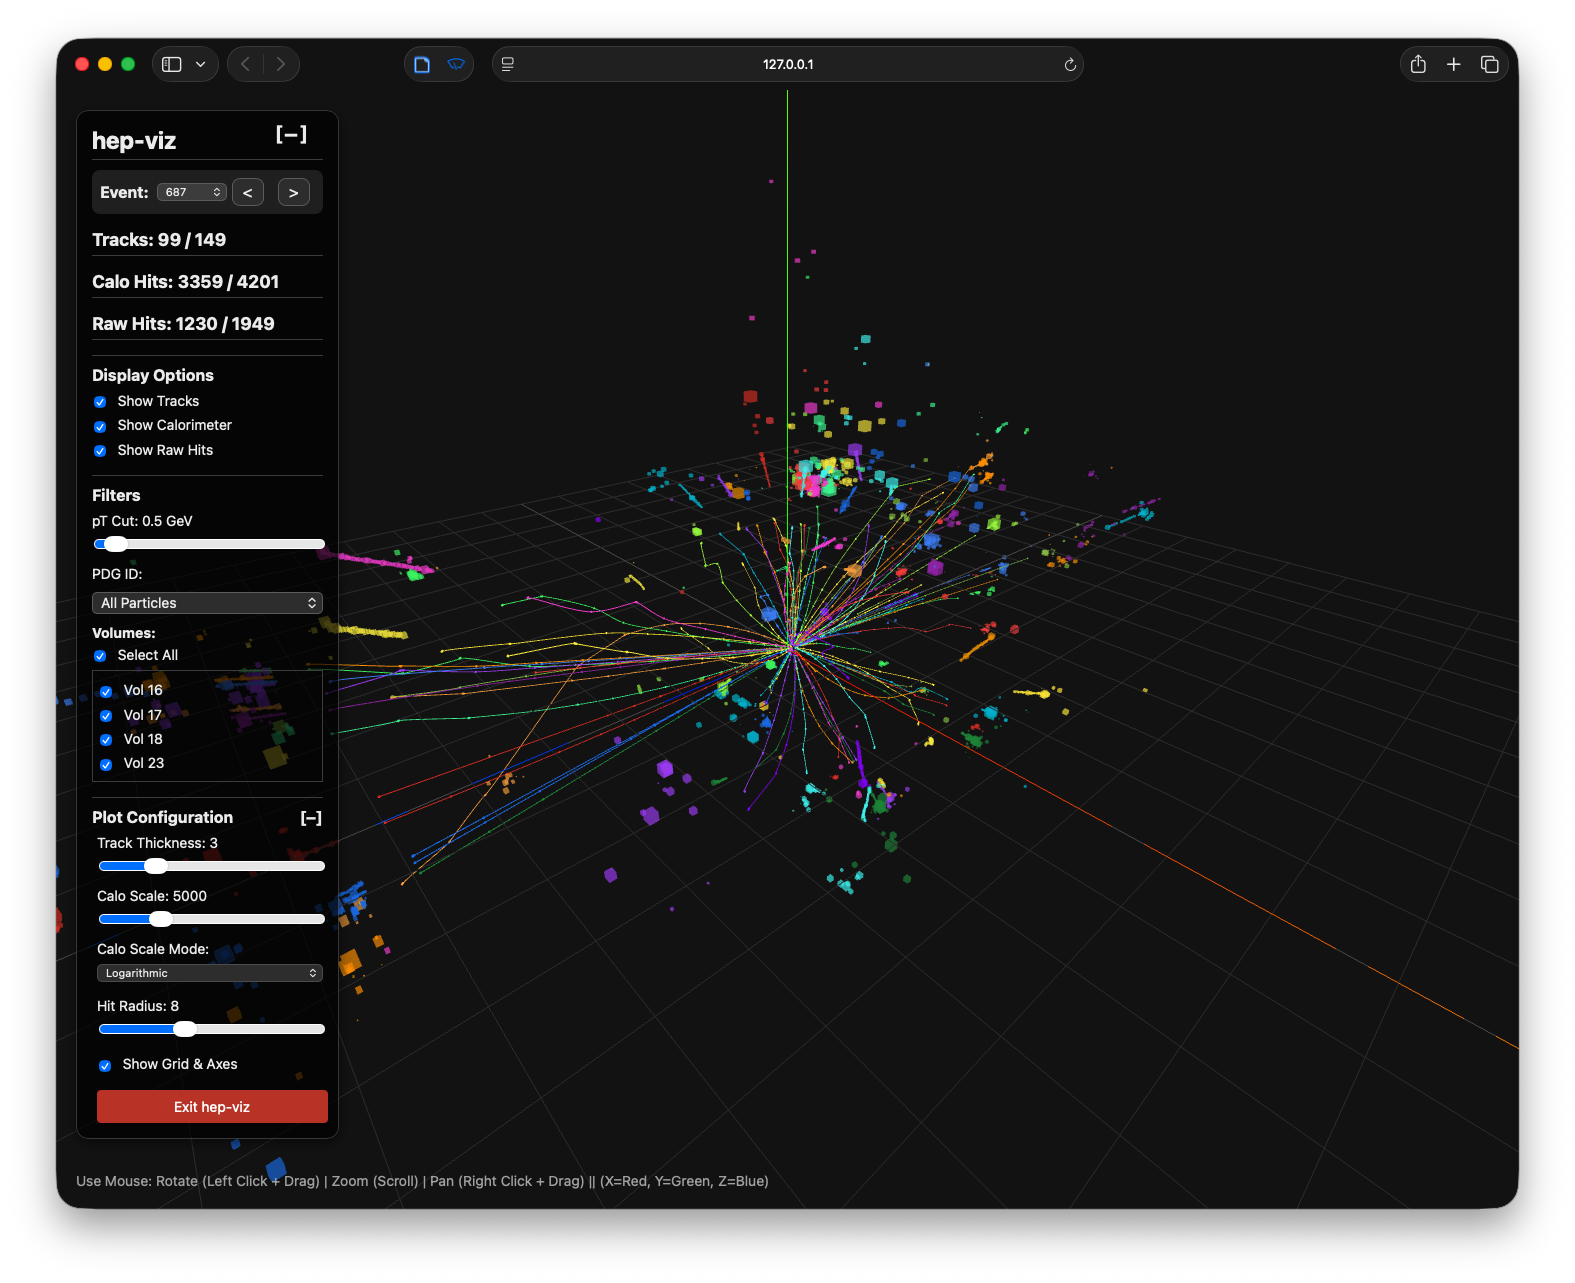
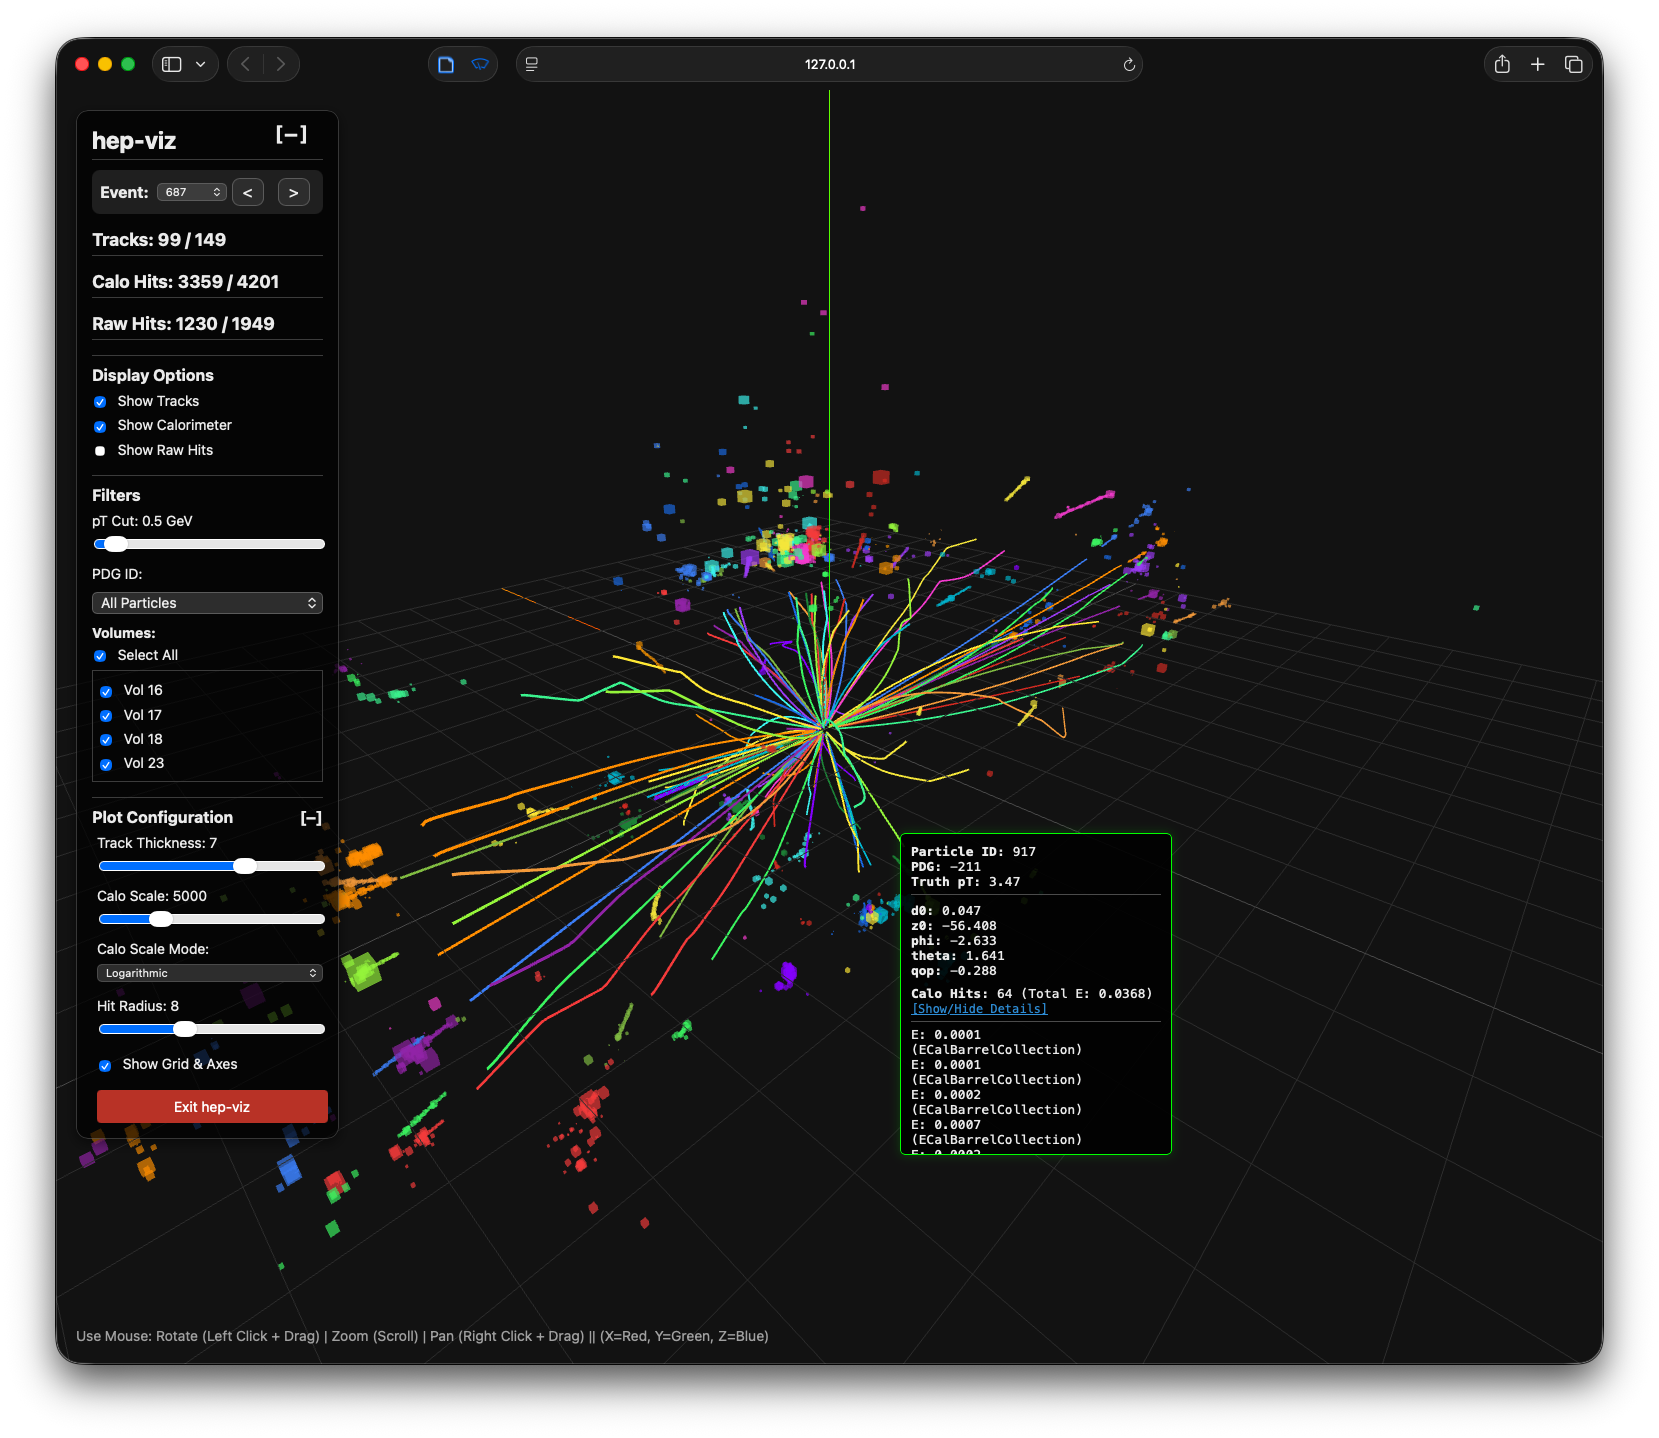
Enable track selection and display detailed reconstructed track and calorimeter hit information in a popup.

diff --git a/hep_viz/templates/index.html b/hep_viz/templates/index.html
@@ -212,6 +212,42 @@
         .hidden {
             display: none !important;
         }
+
+        /* Track Popup */
+        #track-popup {
+            display: none;
+            position: absolute;
+            background: rgba(0, 0, 0, 0.9);
+            border: 1px solid #00ff00;
+            padding: 10px;
+            border-radius: 5px;
+            z-index: 1000;
+            color: #eee;
+            font-family: monospace;
+            max-height: 300px;
+            overflow-y: auto;
+            width: 250px;
+            font-size: 13px;
+            box-shadow: 0 0 10px rgba(0, 255, 0, 0.2);
+        }
+
+        .calo-list {
+            display: none;
+            margin-top: 5px;
+            border-top: 1px solid #555;
+            padding-top: 5px;
+        }
+
+        .calo-list.open {
+            display: block;
+        }
+
+        .toggle-btn {
+            cursor: pointer;
+            color: #3498db;
+            text-decoration: underline;
+            font-size: 12px;
+        }
     </style>
 </head>
 
@@ -220,6 +256,8 @@
         <div class="spinner"></div>
         <h2 id="loading-text">Loading Event...</h2>
     </div>
+
+    <div id="track-popup"></div>
 
     <div id="canvas-container"></div>
 
@@ -381,6 +419,11 @@
         const lblCalo = document.getElementById('lbl-calo');
         const lblCfgCalo = document.getElementById('lbl-cfg-calo');
         const pdgContainer = document.getElementById('pdg-container');
+
+        // Raycaster
+        const raycaster = new THREE.Raycaster();
+        const mouse = new THREE.Vector2();
+        raycaster.params.Line.threshold = 0.5;
 
         // 1. Initialize Scene
         function init() {
@@ -621,6 +664,14 @@
                 const geometry = new THREE.TubeGeometry(curve, segments, TRACK_THICKNESS, 8, false);
                 const color = getColor(particleId);
                 const mesh = new THREE.Mesh(geometry, new THREE.MeshBasicMaterial({ color: color }));
+
+                // Attach track data for raycasting
+                // Find the original track object to attach
+                const originalTrack = fTracks.find(t => t.particle_id === particleId);
+                if (originalTrack) {
+                    mesh.userData = { track: originalTrack };
+                }
+
                 tracksGroup.add(mesh);
             };
 
@@ -799,6 +850,91 @@
             valRadius.innerText = RAW_HIT_RADIUS;
             drawEvent();
         });
+
+        // --- CLICK INTERACTION ---
+
+        window.addEventListener('click', onMouseClick, false);
+
+        function onMouseClick(event) {
+            // Ignore clicks on UI
+            if (event.target.closest('#ui-container') || event.target.closest('#track-popup')) return;
+
+            // 1. Calculate mouse position in normalized device coordinates (-1 to +1)
+            mouse.x = (event.clientX / window.innerWidth) * 2 - 1;
+            mouse.y = -(event.clientY / window.innerHeight) * 2 + 1;
+
+            // 2. Cast ray
+            raycaster.setFromCamera(mouse, camera);
+            const intersects = raycaster.intersectObjects(tracksGroup.children);
+
+            if (intersects.length > 0) {
+                // Found a track!
+                const selectedMesh = intersects[0].object;
+                const trackData = selectedMesh.userData.track;
+
+                if (trackData) {
+                    showPopup(event.clientX, event.clientY, trackData);
+                }
+            } else {
+                hidePopup();
+            }
+        }
+
+        function showPopup(x, y, data) {
+            const popup = document.getElementById('track-popup');
+            popup.style.left = (x + 15) + 'px';
+            popup.style.top = (y + 15) + 'px';
+            popup.style.display = 'block';
+
+            let recoHtml = '<em>No Reco Track</em>';
+            if (data.reco_info && data.reco_info.has_reco) {
+                recoHtml = `
+                    <strong>d0:</strong> ${data.reco_info.d0.toFixed(3)}<br>
+                    <strong>z0:</strong> ${data.reco_info.z0.toFixed(3)}<br>
+                    <strong>phi:</strong> ${data.reco_info.phi.toFixed(3)}<br>
+                    <strong>theta:</strong> ${data.reco_info.theta.toFixed(3)}<br>
+                    <strong>qop:</strong> ${data.reco_info.qop.toFixed(3)}
+                `;
+            }
+
+            let caloHtml = `<strong>Calo Hits:</strong> ${data.calo_hits ? data.calo_hits.length : 0}`;
+            if (data.calo_hits && data.calo_hits.length > 0) {
+                const totalE = data.calo_hits.reduce((sum, h) => sum + h.energy, 0);
+                caloHtml += ` (Total E: ${totalE.toFixed(4)})<br>`;
+
+                caloHtml += `<span class="toggle-btn" onclick="toggleCaloList()">[Show/Hide Details]</span>`;
+                caloHtml += `<div id="popup-calo-list" class="calo-list">`;
+                data.calo_hits.forEach(h => {
+                    caloHtml += `<div>E: ${h.energy.toFixed(4)} (${h.detector})</div>`;
+                });
+                caloHtml += `</div>`;
+            }
+
+            popup.innerHTML = `
+                <div style="margin-bottom:8px; border-bottom:1px solid #555; padding-bottom:5px;">
+                    <strong>Particle ID:</strong> ${data.particle_id}<br>
+                    <strong>PDG:</strong> ${data.pdg_id}<br>
+                    <strong>Truth pT:</strong> ${data.pT.toFixed(2)}
+                </div>
+                <div style="margin-bottom:8px;">
+                    ${recoHtml}
+                </div>
+                <div>
+                    ${caloHtml}
+                </div>
+            `;
+        }
+
+        function hidePopup() {
+            const popup = document.getElementById('track-popup');
+            popup.style.display = 'none';
+        }
+
+        // Global function for the onclick handler
+        window.toggleCaloList = function () {
+            const el = document.getElementById('popup-calo-list');
+            if (el) el.classList.toggle('open');
+        }
 
         // --- LOADING SCREEN ---
         const loadingOverlay = document.getElementById('loading-overlay');

diff --git a/hep_viz/data_processor.py b/hep_viz/data_processor.py
@@ -195,6 +195,13 @@ class DataProcessor:
                 ch_data = self.memory_data['calo_hits'][ch_idx]
                 calo_hits = pd.DataFrame(ch_data)
 
+            # Reco Tracks
+            tracks_df = pd.DataFrame()
+            if 'tracks' in idx_map:
+                t_idx = idx_map['tracks']
+                t_data = self.memory_data['tracks'][t_idx]
+                tracks_df = pd.DataFrame(t_data)
+
         else:
             # --- Load from Files ---
             if 'particles' not in self.files or not self.files['particles']:
@@ -234,6 +241,11 @@ class DataProcessor:
             ch_path = get_file_for_event('calo_hits', n)
             if ch_path:
                 calo_hits = self._load_parquet_event(ch_path, n)
+
+            tracks_df = pd.DataFrame()
+            t_path = get_file_for_event('tracks', n)
+            if t_path:
+                tracks_df = self._load_parquet_event(t_path, n)
 
         # --- Common Processing ---
         
@@ -334,10 +346,42 @@ class DataProcessor:
                 points = group_of_hits[cols].to_dict(orient='records')
                 
                 if len(points) > 1:
+                    # A. Find Matching Reco Track
+                    track_info = {
+                        'd0': 0.0, 'z0': 0.0, 'phi': 0.0, 'theta': 0.0, 'qop': 0.0,
+                        'has_reco': False
+                    }
+                    
+                    if not tracks_df.empty and 'majority_particle_id' in tracks_df.columns:
+                        reco_track = tracks_df[tracks_df['majority_particle_id'] == particle_id]
+                        if not reco_track.empty:
+                            row = reco_track.iloc[0]
+                            track_info = {
+                                'd0': float(row['d0']) if 'd0' in row else 0.0,
+                                'z0': float(row['z0']) if 'z0' in row else 0.0,
+                                'phi': float(row['phi']) if 'phi' in row else 0.0,
+                                'theta': float(row['theta']) if 'theta' in row else 0.0,
+                                'qop': float(row['qop']) if 'qop' in row else 0.0,
+                                'has_reco': True
+                            }
+
+                    # B. Get Associated Calo Contributions
+                    calo_data = []
+                    if not calo_hits.empty and 'contrib_particle_ids' in calo_hits.columns:
+                        associated_calo = calo_hits[calo_hits['contrib_particle_ids'] == particle_id]
+                        for _, hit in associated_calo.iterrows():
+                            calo_data.append({
+                                'energy': float(hit['contrib_energies']) if 'contrib_energies' in hit else 0.0,
+                                'detector': str(hit['detector']) if 'detector' in hit else 'Unknown',
+                                'cell_id': str(hit['cell_id']) if 'cell_id' in hit else ''
+                            })
+
                     event_tracks.append({
                         'particle_id': int(particle_id),
                         'pT': float(pt_map.get(particle_id, 0)),
                         'pdg_id': int(pdg_map.get(particle_id, 0)),
+                        'reco_info': track_info,
+                        'calo_hits': calo_data,
                         'points': points
                     })
 

diff --git a/hep_viz/cli.py b/hep_viz/cli.py
@@ -62,7 +62,7 @@ def version():
     """
     Show the current version of hep-viz.
     """
-    typer.echo("hep-viz version 0.1.2")
+    typer.echo("hep-viz version 0.1.3")
 
 if __name__ == "__main__":
     app()

diff --git a/README.md b/README.md
@@ -94,6 +94,11 @@ Once the server starts, `hep-viz` opens an interactive 3D visualization in your 
 *   **Tracker Hits**: Individual detector measurements forming the reconstructed tracks.
 *   **Interactive Controls**: Rotate, zoom, and pan to explore the event from any angle.
 *   **Event Navigation**: Browse through multiple events in your dataset using the event selector.
+*   **Track Selection**: Click on any track in the 3D view to see detailed information:
+	*   **Particle Info**: PDG ID, Truth pT.
+	*   **Reconstruction Info**: d0, z0, phi, theta, qop (if available).
+	*   **Calorimeter Deposits**: Total energy and a collapsible list of individual cell contributions.
+
 
 
 ## Data Format
